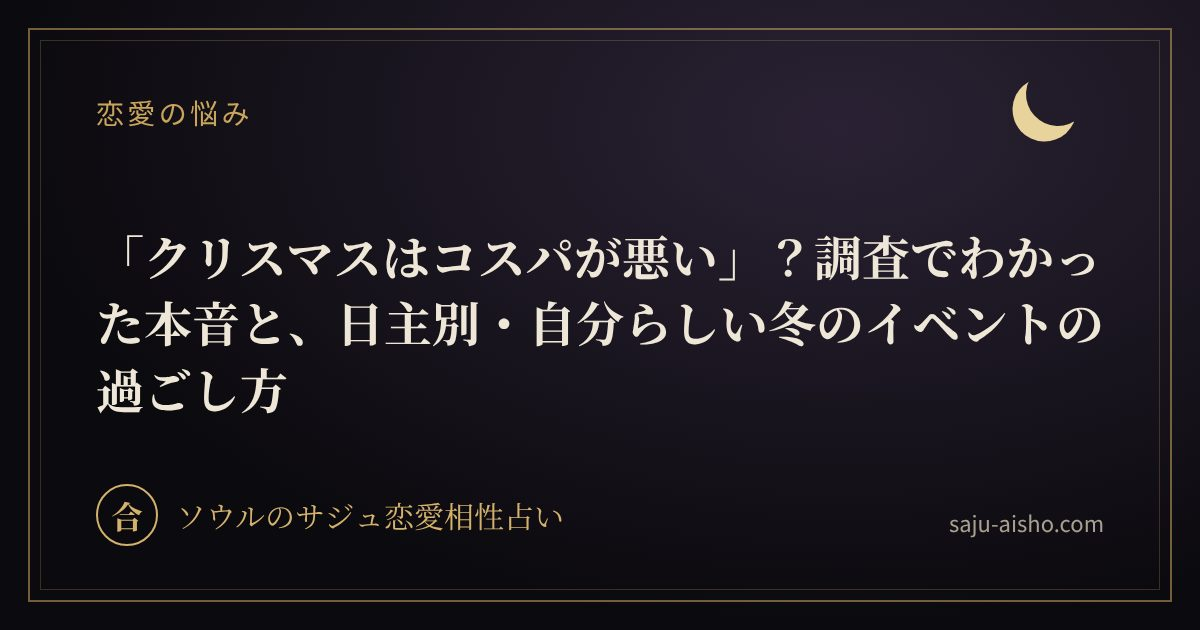
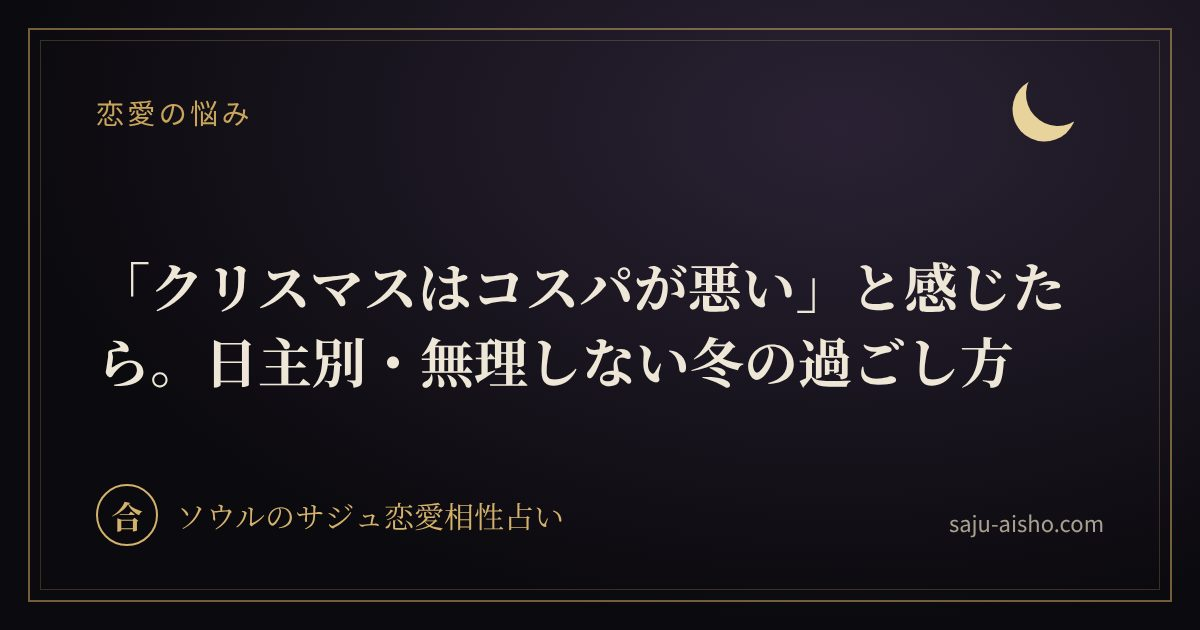
記事「クリスマスはコスパが悪いと感じたら。日主別・無理しない冬の過ごし方」を公開
Claude-Session: https://claude.ai/code/session_016LnLn1Ec9XyU7DmEpWKGvH

Changed region(s): [[0.0617, 0.3619, 0.925, 0.6635]]

diff --git a/src/content/articles/xmas-cospa.md b/src/content/articles/xmas-cospa.md
@@ -1,170 +1,137 @@
 ---
-title: 「クリスマスはコスパが悪い」？調査でわかった本音と、日主別・自分らしい冬のイベントの過ごし方
-description: 未婚男女2,465人への調査で、クリスマスをキャンセルしたい理由の1位は「コスパが悪い」でした。イベント疲れの本音をデータで紹介し、韓国の占いサジュ（四柱推命）の日主10タイプ別に、無理をしない、自分らしい冬の過ごし方をまとめます。
+title: 「クリスマスはコスパが悪い」と感じたら。日主別・無理しない冬の過ごし方
+description: クリスマスを避けたい理由の1位は「お金がかかる」36.0%。調査の数字を紹介しながら、韓国の占いサジュ（四柱推命）の日主10タイプ別に、あなたが本当に満たされる冬の過ごし方と、お金と時間をかけすぎない楽しみ方をまとめました。
 category: 恋愛の悩み
 publishedAt: 2026-11-12
 pr: true
 draft: false
 ---
 
-街がイルミネーションで明るくなってくると、「今年のクリスマス、どうしよう」と考え始める人も多いはずです。楽しみな気持ちがある一方で、予約、プレゼント、人混み、出費……と考えると、少し疲れてしまう。そんな人も、実は少なくありません。
+街にイルミネーションが灯り始めると、「今年のクリスマス、どうしよう」と考える人も多いのではないでしょうか。楽しみな気持ちがある一方で、「お金がかかる」「予定を合わせるのが大変」と、少し気が重くなることもあります。
 
-この記事では、季節のイベントについての調査から見えてきた本音を紹介し、韓国の占い「サジュ（四柱推命）」の日主（生まれた日のタイプ）別に、無理をしない、自分らしい冬の過ごし方をまとめます。
+そう感じているのは、あなただけではありません。この記事では、恋愛の季節イベントについての調査の数字を紹介しながら、韓国の占い「サジュ（四柱推命）」の日主（生まれた日のタイプ）別に、あなたが本当に満たされる冬の過ごし方をまとめます。
 
 <figure>
-  <img src="/images/articles/cospa-hero.svg" alt="雪の降る窓辺で、小さなテーブルにキャンドルとマグカップが2つ並ぶ、静かな冬の夜のイラスト" width="960" height="480" loading="lazy" />
+  <img src="/images/articles/cospa-hero.svg" alt="雪の降る夜の窓辺に、湯気の立つマグカップと小さなツリーが置かれているイラスト" width="960" height="480" loading="lazy" />
   <figcaption>イラスト：運営者作成</figcaption>
 </figure>
 
-## 調査でわかった「イベント疲れ」の本音
+## クリスマスを避けたい理由、1位は「お金がかかる」
 
-結婚相談所「パートナーエージェント」を運営するタメニー株式会社が、全国の20〜59歳の未婚男女2,465人に「2026年の季節イベント」について調査しました（2025年12月実施）。
+結婚相談所「パートナーエージェント」を運営するタメニーが、20〜59歳の未婚の男女2,465人に聞いた調査（2025年12月）があります。
 
-### クリスマスを「重視する」人は、意外と少ない
+恋愛にまつわる季節のイベントを「避けたい」理由として最も多かったのは、どちらも<strong>お金がかかること（コスパが悪い）</strong>でした。クリスマスでは36.0%、バレンタインデー・ホワイトデーでは34.8%です。
 
-「一大イベントとして重視して過ごす」と答えた人の割合は、1位が正月・大晦日で18.2%、2位が誕生日で15.5%、3位がクリスマスで12.2%でした。「季節の行事として軽く意識して過ごす」まで含めると、クリスマスは46.9%です。
-
-つまり、クリスマスを特別な日として力を入れて過ごす人は、全体の1割ほど。半分近くの人は、「軽く意識する」くらいの距離感で過ごしています。
-
-### キャンセルしたい理由、クリスマスでは「コスパ」が1位
-
-季節のイベントを「キャンセルしたい」と思う理由（全体）は、次のとおりでした。
+20代では、ほかの年代よりも「準備や人付き合いに時間がとられる（タイパが悪い）」が25.3%、「SNS疲れ」が16.6%と高くなっています。
 
 <figure>
-  <img src="/images/articles/cospa-riyu.svg" alt="季節のイベントをキャンセルしたい理由のグラフ。混雑や人混みが苦手56.0%、お金がかかる45.5%、イベント自体に魅力を感じない29.5%、一緒に行く相手がいない27.5%" width="960" height="420" loading="lazy" />
-  <figcaption>季節のイベントを「キャンセルしたい」理由（運営者作成）</figcaption>
+  <img src="/images/articles/cospa-chosa.svg" alt="恋愛の季節イベントを避けたい理由の棒グラフ。クリスマスはお金がかかるが36.0%、バレンタイン・ホワイトデーは34.8%。20代では時間がとられるが25.3%、SNS疲れが16.6%" width="960" height="440" loading="lazy" />
+  <figcaption>恋愛の季節イベントを避けたい理由（タメニーの調査をもとに運営者作成）</figcaption>
 </figure>
 
-イベント別に見ると、クリスマスでは「お金がかかる（コスパが悪い）」が36.0%で、最も多い理由でした。バレンタインデー・ホワイトデーでも、同じく「コスパが悪い」が34.8%で1位です。恋愛にまつわるイベントほど、お金の負担が気になっていることがわかります。
+一方で、同じ調査では、20代の47.9%が季節のイベントを「避けたい」「キャンセルしたい」と思ったことはないと答えています。クリスマスを「一大イベントとして重視する」「季節の行事として軽く意識する」を合わせると、全体の46.9%にのぼります。
 
-### 20代は「楽しみたい」、でも「タイパ」と「SNS疲れ」も
+つまり多くの人は、クリスマスそのものが嫌なのではありません。<strong>楽しみたい気持ちはあるけれど、お金や時間をかけすぎるのは負担</strong>。そんな気持ちの間で揺れているのだと思います。
 
-20代は、ほとんどのイベントで「重視して過ごす」割合が、どの年代よりも高い結果でした。「避けたい」「キャンセルしたい」と思ったことはない人も47.9%で、全年代で最も多くなっています。
+## 「コスパがいい」かどうかは、何に満たされるかで決まる
 
-一方で、「準備や人付き合いに時間がとられる（タイパが悪い）」は25.3%、「SNS疲れ」は16.6%と、どちらも他の年代より高い割合でした。楽しみたい気持ちはあるけれど、準備や「SNSに上げる前提」に疲れている。そんな姿が見えてきます。
+高いレストランで過ごす夜に満たされる人もいれば、家でゆっくり過ごすほうがうれしい人もいます。同じお金と時間をかけても、満足できるかどうかは人によって違います。
 
-## イベントが面倒なのは、恋愛が嫌いだからではない
+だから大切なのは、世間の「クリスマスらしさ」に合わせることではなく、<strong>自分が何に満たされるのかを知ること</strong>です。それがわかれば、お金や時間をかけるところと、かけなくていいところを分けられます。
 
-この結果から言えるのは、「イベントがおっくう」と感じるのは、相手や恋愛が嫌いだからではない、ということです。苦手なのは、<strong>人混み、出費、準備、見せるためのイベント</strong>といった「イベントの形」のほうです。
+サジュの日主は、その「満たされるポイント」を知るヒントになります。自分の日主は、[個人占い](/kojin/)で生年月日を入れると調べられます。
 
-だとすれば、形を自分たちに合わせて変えればいい。そのとき役に立つのが、自分が何に疲れやすく、何で満たされるのかを知ることです。サジュの日主は、そのヒントになります。
+## サジュでは、冬は「蓄える」季節
 
-ちなみにサジュでは、冬は「水」の季節。水は、静かに力をたくわえる五行です。冬はもともと、外で盛り上がるより、内側で満たされる過ごし方が合う季節だと考えられています。くわしくは[立冬から始まる「水の月」の記事](/articles/ritto-fuyu-koi/)でも紹介しています。
+サジュでは、冬は五行の「水」の季節です。水は、静けさや休息、知恵を表します。自然界でも、冬は木々が葉を落とし、春に向けて力を蓄える時期です。
 
-## 日主別・疲れやすいポイントと、自分らしい冬の過ごし方
+そう考えると、冬に無理をして予定を詰めこむより、自分を休ませて満たすほうが、季節の流れに合っています。冬の過ごし方については、[立冬から始まるサジュの「水の月」](/articles/ritto-fuyu-koi/)でも紹介しています。
 
-自分の日主は、[個人占い](/kojin/)で生年月日を入れると調べられます。
+## 日主別・満たされる冬の過ごし方
+
+10の日主ごとに、満たされるポイントと、お金や時間をかけすぎない過ごし方をまとめました。恋人がいる人も、いない人も使えるようにしています。
 
 <figure>
-  <img src="/images/articles/cospa-10types.svg" alt="日主10タイプ別の、自分らしい冬のイベントの過ごし方の一覧" width="960" height="620" loading="lazy" />
-  <figcaption>日主別・自分らしい冬の過ごし方（運営者作成）</figcaption>
+  <img src="/images/articles/cospa-10types.svg" alt="日主10タイプ別の、満たされる冬の過ごし方の一覧" width="960" height="620" loading="lazy" />
+  <figcaption>日主別・満たされる冬の過ごし方（運営者作成）</figcaption>
 </figure>
 
 ### 甲（きのえ）｜大樹タイプ
 
-**疲れやすいポイント**：計画どおりに進まない混雑や行列。予約が取れないと、気持ちが一気に冷めてしまいます。
+**満たされるポイント**：前に進んでいる実感。
 
-**自分らしい過ごし方**：日をずらして、混雑を避けましょう。クリスマス当日ではなく、前の週末や平日の夜に祝うだけで、予約も取りやすく、ゆっくり過ごせます。
-
-くわしくは[甲木（大樹タイプ）](/articles/koboku/)へ。
+**おすすめの過ごし方**：一年を振り返り、来年の目標を書き出す時間をつくりましょう。恋人がいるなら、ふたりの「来年やりたいこと」を話すのがおすすめ。お金をかけなくても、未来の話は甲木にとって何よりのごちそうです。
 
 ### 乙（きのと）｜草花タイプ
 
-**疲れやすいポイント**：まわりやSNSの「定番」に合わせようとして、自分たちの好みがわからなくなる。
+**満たされるポイント**：気の合う人とのつながり。
 
-**自分らしい過ごし方**：SNSで見かけるお店より、ふたりが本当に好きなものを選びましょう。いつものお店でも、「今年もありがとう」のひとことがあれば、十分に特別な日になります。
-
-くわしくは[乙木（草花タイプ）](/articles/otsuboku/)へ。
+**おすすめの過ごし方**：大勢のパーティーより、気の合う人と少人数で鍋を囲むほうが満たされます。費用を分け合えるので、お財布にもやさしい過ごし方です。
 
 ### 丙（ひのえ）｜太陽タイプ
 
-**疲れやすいポイント**：大人数の集まりで、盛り上げ役を引き受けすぎてしまう。
+**満たされるポイント**：明るさと、わくわくする気持ち。
 
-**自分らしい過ごし方**：気の合う人と少人数で、思いきり笑える時間を。あなたが心から楽しんでいる姿が、まわりにとっても一番のプレゼントです。
-
-くわしくは[丙火（太陽タイプ）](/articles/heika/)へ。
+**おすすめの過ごし方**：イルミネーションを見に歩きましょう。多くは無料で楽しめます。きらきらした景色の中を歩くだけで、丙火は十分に満たされます。
 
 ### 丁（ひのと）｜灯火タイプ
 
-**疲れやすいポイント**：人混みや騒がしい場所。にぎやかすぎると、気持ちがすり減ってしまいます。
+**満たされるポイント**：心が通い合う、あたたかい雰囲気。
 
-**自分らしい過ごし方**：家でキャンドルを灯して、ゆっくり話す夜を。静かな場所のほうが、丁火の細やかな気持ちが、相手に届きやすくなります。
-
-くわしくは[丁火（灯火タイプ）](/articles/teika/)へ。
+**おすすめの過ごし方**：キャンドルや間接照明の灯りの下で、ゆっくり話す夜を。高い贈り物より、短い手紙のほうが丁火の気持ちは伝わります。
 
 ### 戊（つちのえ）｜山タイプ
 
-**疲れやすいポイント**：予約や段取りを全部ひとりで引き受けて、当日には疲れきっている。
+**満たされるポイント**：安心できる、いつも通りの時間。
 
-**自分らしい過ごし方**：準備は分け合いましょう。「お店はお願い、ケーキは私が」くらいに分けるだけで、当日を一緒に楽しむ余裕が生まれます。
-
-くわしくは[戊土（山タイプ）](/articles/bodo/)へ。
+**おすすめの過ごし方**：特別な予約をしなくても、いつものお店でゆっくり過ごすのが一番です。「クリスマスだから」と無理をしないことが、戊土にとってのいちばんのご褒美です。
 
 ### 己（つちのと）｜田畑タイプ
 
-**疲れやすいポイント**：相手に気を遣いすぎて、予算以上にお金をかけてしまう。
+**満たされるポイント**：誰かのために手をかけること。
 
-**自分らしい過ごし方**：予算は先に決めて、相手にも伝えておきましょう。「プレゼントは5,000円まで」と決めておけば、お互いに気楽です。金額より、相手の毎日を思いやる気持ちが伝わる贈り物を選ぶのが、己土らしいやり方です。
-
-くわしくは[己土（田畑タイプ）](/articles/kido/)へ。
+**おすすめの過ごし方**：手料理で小さなお祝いを。ひとりなら、自分のために丁寧に料理する夜も素敵です。ただし、尽くしすぎて疲れないように、品数は少なめに。
 
 ### 庚（かのえ）｜鋼タイプ
 
-**疲れやすいポイント**：意味を感じられない「なんとなくのイベント」。義務のように感じると、気持ちが乗りません。
+**満たされるポイント**：はっきりした体験。
 
-**自分らしい過ごし方**：「今年のお礼を伝える日」など、目的をひとつ決めましょう。理由がはっきりすると、庚金はまっすぐ気持ちを伝えられます。
-
-くわしくは[庚金（鋼タイプ）](/articles/koukin/)へ。
+**おすすめの過ごし方**：日帰りの小旅行や温泉など、「これをする」とひとつ決めた体験を。あれこれ詰めこむより、ひとつに絞るほうが満足度が上がります。
 
 ### 辛（かのと）｜宝石タイプ
 
-**疲れやすいポイント**：「完璧な演出にしなきゃ」というプレッシャー。準備の段階で疲れてしまいがちです。
+**満たされるポイント**：美しいもの、質の高いもの。
 
-**自分らしい過ごし方**：あれもこれもではなく、小さくても質のいいものをひとつ。おいしいケーキ、香りのいいお茶など、ひとつにこだわるほうが、辛金の美意識が生きます。
-
-くわしくは[辛金（宝石タイプ）](/articles/shinkin/)へ。
+**おすすめの過ごし方**：量より質。ケーキなら、いいお店の小さなひとつを。全部を豪華にしなくても、ひとつだけいいものがあれば、辛金の心は満たされます。
 
 ### 壬（みずのえ）｜大海タイプ
 
-**疲れやすいポイント**：毎年同じ「定番のクリスマス」。決まりきった流れに、退屈を感じやすいタイプです。
+**満たされるポイント**：自由で、縛られないこと。
 
-**自分らしい過ごし方**：定番を外して、近場への小さな旅や、行ったことのない街の散歩を。混雑する人気スポットより、ふたりだけの発見があるほうが、壬水の心は満たされます。
-
-くわしくは[壬水（大海タイプ）](/articles/jinsui/)へ。
+**おすすめの過ごし方**：12月25日にこだわらず、前後の空いている日に、思いついた場所へ出かけましょう。混雑や高い料金を避けられるうえ、壬水らしい自由さも楽しめます。
 
 ### 癸（みずのと）｜雨露タイプ
 
-**疲れやすいポイント**：「相手は何を期待しているんだろう」と読みすぎて、準備する前から疲れてしまう。
+**満たされるポイント**：静けさと、心が休まる時間。
 
-**自分らしい過ごし方**：どう過ごしたいかを、先に話してみましょう。「今年はゆっくりしたいな」とひとこと伝えるだけで、読み合いの疲れがなくなります。
+**おすすめの過ごし方**：静かな夜に、温かい飲み物と好きな映画を。ひとりで過ごすクリスマスも、癸水にとっては心を整える大切な時間です。
 
-くわしくは[癸水（雨露タイプ）](/articles/kisui/)へ。
+## お金と時間をかけすぎずに、満足度を上げる5つの工夫
 
-## コスパ・タイパを気にせず楽しむ、5つの工夫
+1. **先に予算を決める**：ふたりで過ごすなら、「プレゼントは〇円まで」と先に話しておくと、お互いに気をつかいすぎずにすみます。
+2. **日にちをずらす**：イブや当日を避けるだけで、予約が取りやすく、料金も抑えやすくなります。
+3. **形に残るものより、言葉を贈る**：短い手紙や「いつもありがとう」のひとことは、お金をかけずに気持ちが伝わります。
+4. **ひとりの時間も「予定」に入れる**：予定が空いていることを、さみしいと思わなくて大丈夫です。休むことも、立派な冬の過ごし方です。
+5. **SNSと少し距離をおく**：人の過ごし方と比べないことが、自分らしく過ごすいちばんの近道です。
 
-日主にかかわらず、誰でも取り入れやすい工夫です。
+パートナーへの感謝の伝え方は[パートナーに届く「ありがとう」の伝え方](/articles/fufu-arigato/)で、恋人がほしい人に向けた出会い方は[クリスマスまでに恋人がほしい人へ](/articles/xmas-deai/)で紹介しています。
 
-1. **当日にこだわらない**：前後の週末や平日に祝えば、混雑も料金も抑えられます。
-2. **予算は先に決めて、ふたりで共有する**：「どれくらいかけるか」を先に話しておくと、プレゼント選びの不安が減ります。
-3. **プレゼントは「労わり」を軸に**：高価なものより、相手の疲れを癒やすもののほうが、受け取る側の満足度が高いこともあります。
-4. **SNSに上げなくていい**：「見せるため」ではなく、「ふたりが楽しいか」で選ぶと、準備の負担がぐっと減ります。
-5. **ひとりの時間も、立派な過ごし方**：恋人がいてもいなくても、好きなものを食べて早めに眠る冬の夜は、それだけで心を満たしてくれます。
+## 「自分らしい冬」で大丈夫
 
-## 相手と「温度差」があるときは
+クリスマスの過ごし方に、正解はありません。大切なのは、世間の「らしさ」に合わせて疲れてしまうことではなく、あなたが満たされる時間を選ぶことです。
 
-自分はゆっくり過ごしたいのに、相手は盛大に祝いたい。そんな温度差があるときは、どちらかが我慢するのではなく、半分ずつ取り入れるのがおすすめです。たとえば、「イブは家でゆっくり、週末にちょっといいレストラン」というように、ふたりの希望を組み合わせてみましょう。
+もし、ふたりの過ごし方の違いでぎくしゃくしたり、この冬の恋の行方が気になったりするときは、[相性占い](/shindan/)でふたりの日主を調べてみてください。それでも迷うときは、恋愛の相談にくわしい占い師に話を聞いてもらうのもひとつの方法です。
 
-価値観の違いがあるふたりの付き合い方は、[相性が悪いと言われたときの記事](/articles/aisho-warui/)でも紹介しています。パートナーへの感謝の伝え方は、[日主別・パートナーに届く「ありがとう」の伝え方](/articles/fufu-arigato/)にまとめています。これから出会いを探したい人は、[クリスマスまでの出会い方の記事](/articles/xmas-deai/)もどうぞ。
+参考：[タメニー「2026年の季節イベント」に関する調査（コマースピック）](https://www.commercepick.com/archives/82747)
 
-## まとめ：イベントは、自分たちの形で
-
-- クリスマスを「一大イベントとして重視する」人は12.2%。半分近くの人は「軽く意識する」くらいの距離感
-- クリスマスをキャンセルしたい理由の1位は「コスパが悪い」（36.0%）
-- イベントが面倒なのは、恋愛が嫌いだからではなく、「イベントの形」が合っていないから
-- 日主ごとに疲れやすいポイントは違う。自分に合う形に変えれば、冬のイベントはもっと楽しくなる
-
-ふたりの関係や、これからの過ごし方で迷うことがあれば、信頼できる人や、恋愛の相談にくわしい占い師に話を聞いてもらうのもひとつの方法です。
-
-参考：[「2026年の季節イベント」に関する調査（タメニー株式会社）の紹介記事（コマースピック）](https://www.commercepick.com/archives/82747)
-
-※この記事は、四柱推命（サジュ）の一般的な考え方と、公開されている調査結果をもとに、運営者が調べてまとめたものです。
+※この記事は、四柱推命（サジュ）の一般的な考え方を、運営者が調べてまとめたものです。
